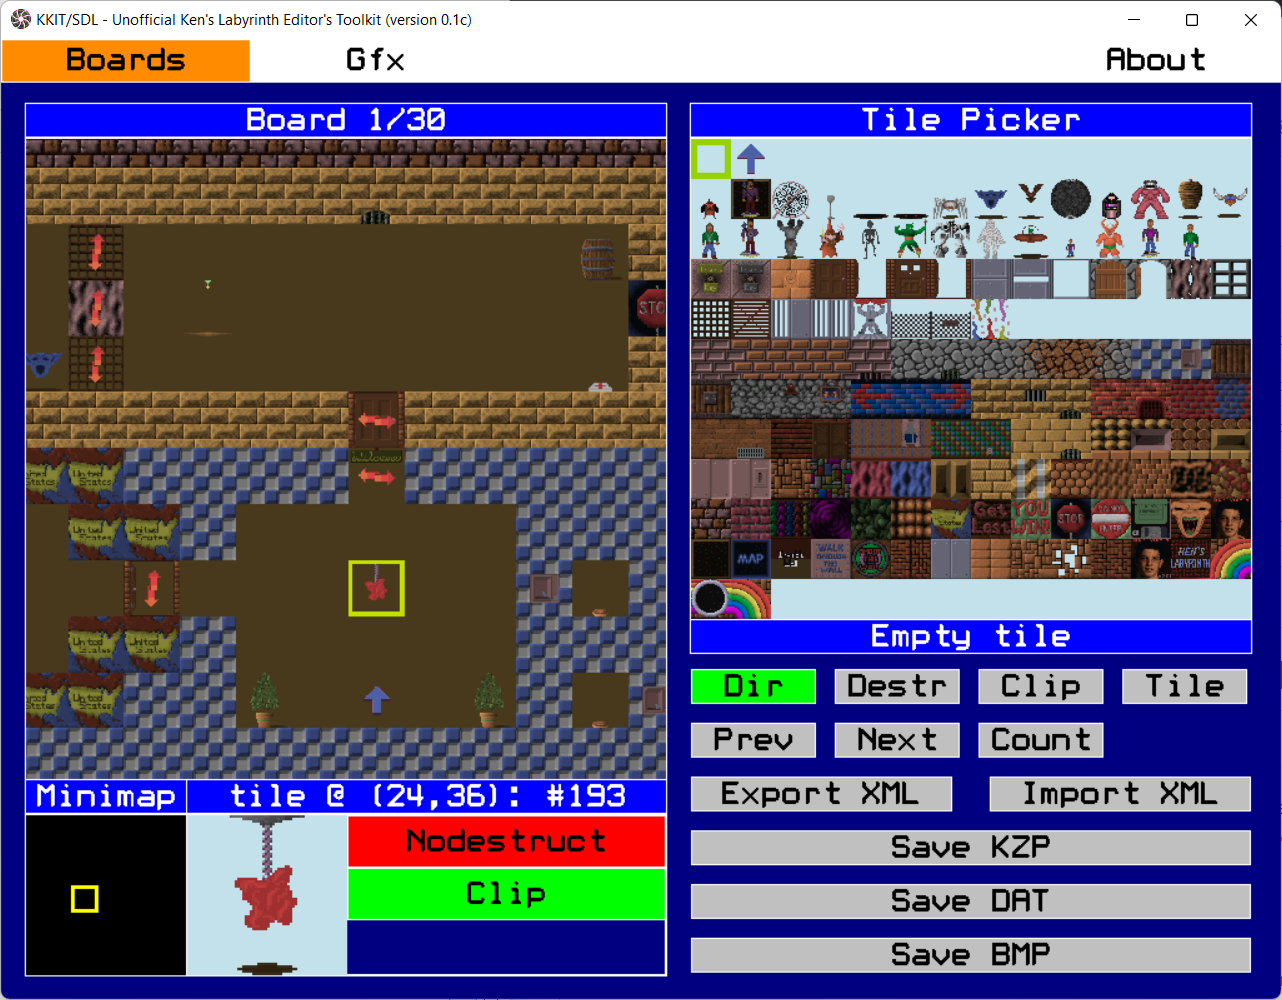
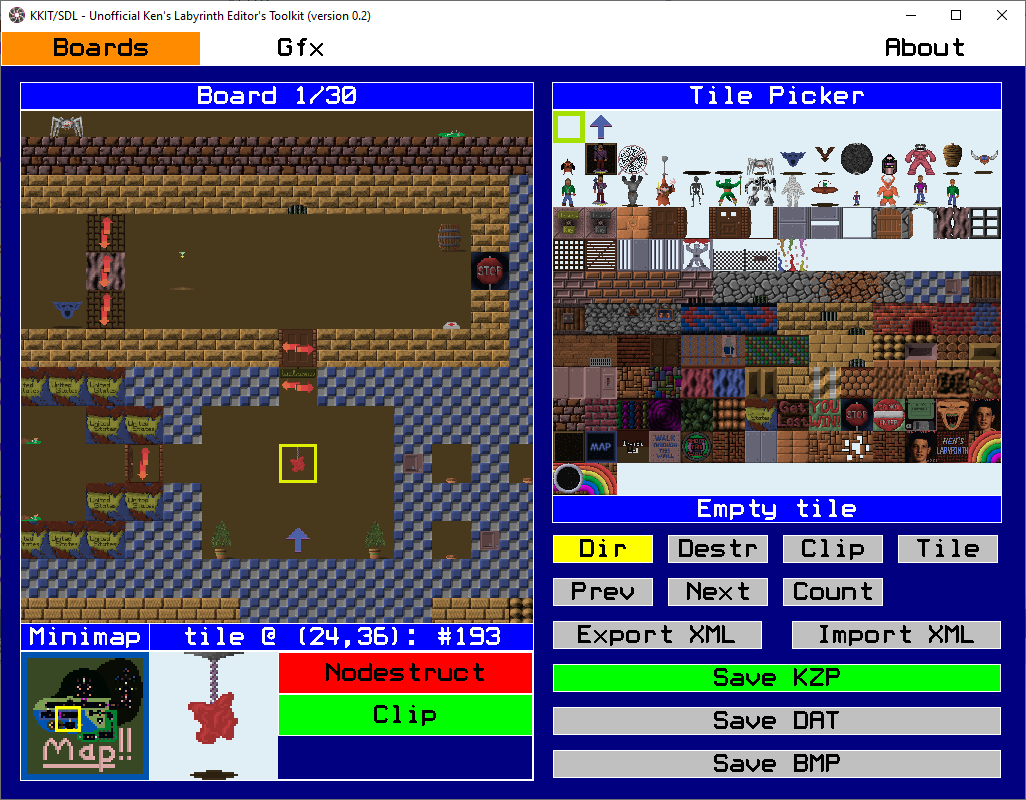
Prepare docs for version 0.2

diff --git a/klabkit-sdl/docs/readme.html b/klabkit-sdl/docs/readme.html
@@ -2,7 +2,7 @@
 <html lang="en">
 
 <head>
-    <title>KKIT/SDL - Unofficial Ken's Labyrinth Editor's Toolkit (version 0.2b-snapshot) - Documentation</title>
+    <title>KKIT/SDL - Unofficial Ken's Labyrinth Editor's Toolkit (version 0.2) - Documentation</title>
     <link rel="stylesheet" href="style.css">
 </head>
 
@@ -62,7 +62,7 @@
 
                 <hr>
 
-                <header>KKIT/SDL - Unofficial Ken's Labyrinth Editor's Toolkit (version 0.2b-snapshot)</header>
+                <header>KKIT/SDL - Unofficial Ken's Labyrinth Editor's Toolkit (version 0.2)</header>
 
                 <p>Thank you for checking out the <a href="https://github.com/kaimitai/klabkit-sdl/">KKIT/SDL editor</a>. With this tool you will be able to create and alter levels for Ken's Labyrinth, as well as - with the help of an external bmp file editor - modify the majority of the graphics in the game. Check out the various sections of this document for an explanation of the program's functionality.</p>
 
@@ -119,11 +119,11 @@
                 <img src="./images/03_config_xml.png" alt="Board Editor screen" width="1024" />
 
                 <p>
-                    The screenshot above shows how to switch between configurations. The XML root node has an attribute "active_config_no", which should be set to a value matching one of the concrete configurations in the XML. In this example it is 0, so the config-block where attribute "no" equals 0 will be loaded on program start. This configuration block has the attribute "project_folder" set to "./gamedata/Ken2.1", meaning this is the folder it will load files from, and save files to.
+                    The screenshot above shows how to switch between configurations. The XML root node has an attribute "active_config_no", which should be set to a value matching one of the concrete configurations in the XML. In this example it is 0, so the config-block where attribute "no" equals 0 will be loaded on program start. This configuration block has the attribute "project_folder" set to "./gamedata/Ken2.1", meaning this is the folder it will load files from, and save files to. The attributes "ext_boards" and "ext_walls" tell the application which file extensions are used by the game version in question, for the files BOARDS.DAT/KZP and WALLS.DAT/KZP.
                 </p>
 
                 <p>
-                    The editor comes with default configuration blocks for all official versions of Ken's Labyrinth. Using the default configuration XML, other values for active_config_no in the root node can be 1, 2, 3 or 4 - which will load v2.0, v1.1, v1.0 or Walken, respectively -  when the program starts.
+                    The editor comes with default configuration blocks for all official versions of Ken's Labyrinth. Using the default configuration XML, other values for active_config_no in the root node can be 1, 2, 3, 4 or 5 - which will load v2.0, v1.1, v1.0, Walken and Walken_08_23_1992, respectively -  when the program starts.
                 </p>
 
                 <p>
@@ -179,11 +179,11 @@
 
                 <p>The Export XML button will save the current board as XML, (hold Shift to save all boards) and the Import XML button will load the current board from XML. (hold shift to load all XMLs at once) This is one way to manipulate and share boards individually, and XML is better than binaries for version control among other things.</p>
 
-                <p>The "Save KZP" button will write your current levels back to BOARDS.KZP. (if editing a legacy version earlier than v2.0, it will save to BOARDS.DAT instead)</p>
+                <p>The "Save KZP" button will write your current levels back to BOARDS.KZP. (if editing a legacy version earlier than v2.0, it will save to BOARDS.DAT instead) Button is green if KZP is the format used by this game version, otherwise gray.</p>
 
-                <p>The "Save DAT" button will write your current levels back to BOARDS.DAT, which is an uncompressed version of the KZP. This is required for v1.x levels, but not much use for v2.x.</p>
+                <p>The "Save DAT" button will write your current levels back to BOARDS.DAT, which is an uncompressed version of the KZP. This is required for v1.x levels, but not much use for v2.x. Button is green if DAT is the format used by this game version, otherwise gray.</p>
 
-                <p>The "Save BMP" button will save the entire board as a 4096x4096x256 color bmp, just for fun ;)</p>
+                <p>The "Save BMP" button will save the entire board as a 4096x4096x256 color bmp, as well as each minimap which will be saved to a 64x64x256 color bmp. If indicators for clip and destructible are turned on in the editor, they will be drawn on the output BMPs as well.</p>
 
                 <p>
                     <b>Mouse functions for board grid:</b>
@@ -286,8 +286,24 @@
                     <li>Imp XML: Load tile from XML (hold shift to load all XMLs)</li>
                     <li>Save KZP: Save tiles to WALLS.KZP</li>
                     <li>Save DAT: Save tiles to WALLS.DAT, an uncompressed version of the KZP. (not necessarily useful)</li>
+                    <li>Save Tilemap BMP: Save all tiles to "tilemap.bmp"</li>
+                    <li>Save Palette BMP: Save the 256-color palette as a 16x16 image file "palette.bmp"</li>
                 </ul>
 
+                <p>
+                    <b>Mouse functions for Tiles-grid:</b>
+                    <br>Mousehweel up and down will scroll the tiles view up and down
+                    <br>Ctrl + Mousehweel up and down will scroll the tiles view 5 rows at a time
+                </p>
+
+                <p>
+                    <b>Keyboard shortcuts for Gfx-screen:</b>
+                    <br>Ctrl+S: Save WALLS.KZP, hold Shift to save DAT instead
+                    <br>Arrow Keys Up/Down: Scroll the tiles view up and down. Hold Ctrl to scroll 4 rows at a time
+                    <br>PgUp/PgDown: Scroll the tiles view one page up or down
+                    <br>Home/End: Go to the beginning or end of the tiles view
+
+                </p>
 
                 <p>The exported BMPs will be 256-color images with the palette used by the game. When altering graphics, try to use a graphics editor that does not change the palette of the image, as the colors cannot be changed anyway. When a BMP is imported, the editor does a nearest-color scheme to translate the BMP palette into the game palette. (Microsoft Paint, for example, in my experience, is not good at preserving the palette, and does not yield good results)</p>
 
@@ -421,16 +437,22 @@
                 <header>Changelog</header>
 
                 <p>
-                    Changes since v0.1c
+                    2023-01-31: Release v0.2
                 </p>
 
                 <ul>
-                    <li>Board screen: Added keyboard shortcut Ctrl+A to select the whole board</li>
-                    <li>Board screen: Added textured minimap, which will give a live view of the in-game minimap</li>
+                    <li>Added support (datafiles and configuration) for recently released game version "Walken 08 23 1992"; configuration #5 in kkit-sdl-config.xml</li>
+                    <li>Added textured minimap to the Board screen, which will give a live view of the in-game minimap</li>
+                    <li>Added keyboard shortcut Ctrl+A to select the whole board in the board screen</li>
+                    <li>Added support for exporting all tiles as a tilemap bmp, and saving the palette as a bmp, in the Gfx screen</li>
+                    <li>Saving a board as BMP will include the player start position, a configurable floor color, and will indicate all noclip and destructible tiles - if the corresponding flash toggles are turned on in the Boards-screen</li>
+                    <li>The buttons "Save KZP" and "Save DAT" will be color coded according to the loaded game version, and each game configuration got a "preferred extension" attribute for the files BOARDS and WALLS</li>
+                    <li>Fixed a bug where the toast notification would render as a black rectangle when resizing the window</li>
+                    <li>Adding missing documentation: Shift+Plus/Minus in the Boards-screen will go to the next/previous board</li>
                 </ul>
 
                 <p>
-                    Changes since v0.1b
+                    2022-05-15: Release v0.1c
                 </p>
 
                 <ul>
@@ -438,6 +460,10 @@
                     <li>Updated documentation; clarified how to switch between lab3d-versions (will be changed to use a launcher in a later version)</li>
                     <li>Added shortcut shift+H to set player start position at selected board tile (to avoid having to use the tile picker)</li>
                 </ul>
+
+                <p>2022-05-10: Release v0.1b</p>
+
+                <p>2022-05-06: Release version alpha 1 (pre-release version for testing)</p>
 
             </section>
 
@@ -455,7 +481,7 @@
 
                 <p>
                     Program written in C++20, using the following external libraries:
-                    <br><a href="https://www.libsdl.org/">SDL2 (2.0.16)</a>
+                    <br><a href="https://www.libsdl.org/">SDL2 (2.24.0)</a>
                     <br><a href="https://pugixml.org/">pugixml</a>
                 </p>
 
@@ -471,9 +497,9 @@
                 </p>
 
                 <ul>
+                    <li>Introduce Dear ImGui and make the windows resizable</li>
                     <li>Show more informational and error messages in the application</li>
                     <li>Add a help/quickstart screen in the application</li>
-                    <li>Ability to see the board map tile (the one that is autogenerated as a map in-game) in the editor</li>
                     <li>Add support for editing highscore and savegame files</li>
                     <li>Clean up the code, and reduce wasted cycles :)</li>
                     <li>Do something for KSM-file editing. We know how the format works, but creating a user-friendly KSM editor with audio capabilites would be a big undertaking.</li>

diff --git a/kkit-cli/source/klabkit-cli/Cli_parser.cpp b/kkit-cli/source/klabkit-cli/Cli_parser.cpp
@@ -1,4 +1,4 @@
-#include <exception>
+#include <stdexcept>
 #include <map>
 #include "Cli_parser.h"
 
@@ -103,7 +103,7 @@ std::string kkit_cli::Cli_parser::get_command(const std::string& p_arg) const {
 }
 
 void kkit_cli::Cli_parser::throw_exception(const std::string& p_err_msg) const {
-	throw std::exception(p_err_msg.c_str());
+	throw std::runtime_error(p_err_msg);
 }
 
 bool kkit_cli::Cli_parser::is_compress(void) const {

diff --git a/klabkit-sdl/source/klabkit/constants.h b/klabkit-sdl/source/klabkit/constants.h
@@ -12,7 +12,7 @@ namespace kkit {
 
 		// application constants
 		constexpr char APP_TITLE[]{ "KKIT/SDL - Unofficial Ken's Labyrinth Editor's Toolkit" };
-		constexpr char APP_VERSION[]{ "0.2b-snapshot" };
+		constexpr char APP_VERSION[]{ "0.2" };
 		constexpr int APP_W{ 1024 };
 		constexpr int APP_H{ 768 };
 		constexpr char CONF_FILE_NAME[]{ "kkit-sdl-config.xml" };
